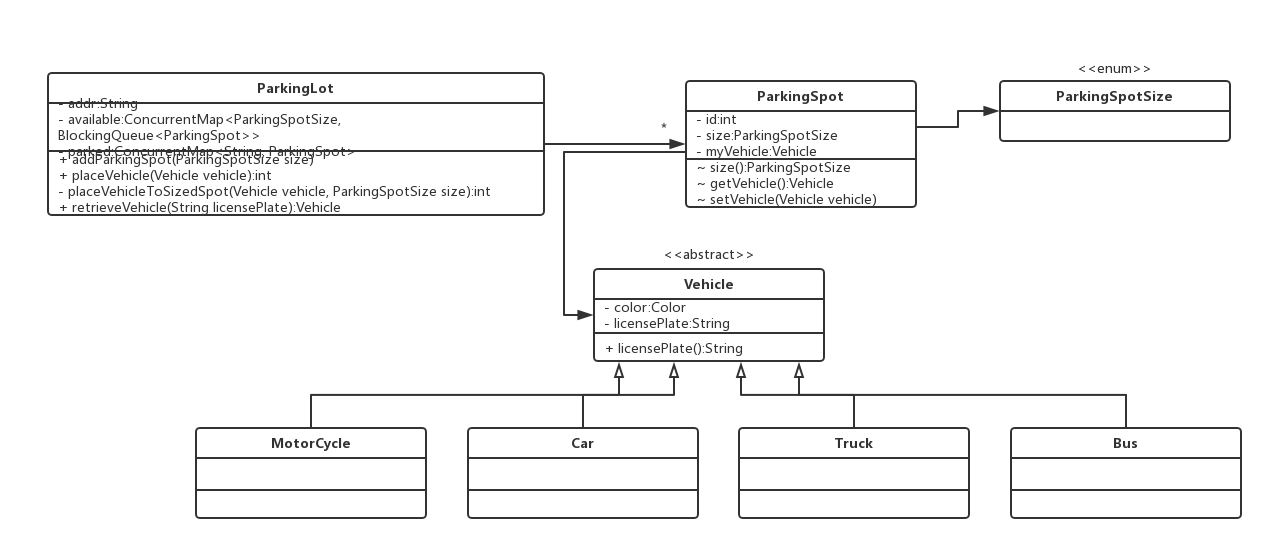
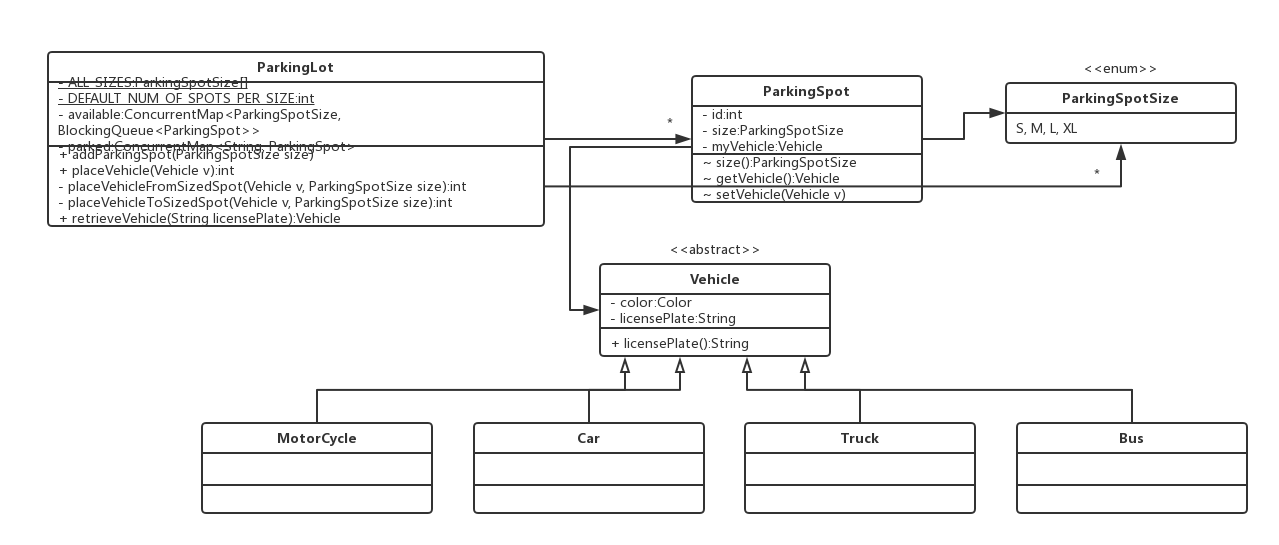
Update parking lot example

Changed region(s): [[0.0306, 0.0936, 0.9804, 0.967], [0.7965, 0.8734, 0.9804, 0.9046], [0.7965, 0.9358, 0.9497, 0.967]]

diff --git a/Interview-System Design Practice/Parking Lot/Java/parking_lot/ParkingLot.java b/Interview-System Design Practice/Parking Lot/Java/parking_lot/ParkingLot.java
@@ -1,21 +1,16 @@
 package parking_lot;
 
+import vehicle.Bus;
 import vehicle.Car;
 import vehicle.MotorCycle;
 import vehicle.Truck;
 import vehicle.Vehicle;
 
+import java.util.Arrays;
 import java.util.concurrent.ArrayBlockingQueue;
 import java.util.concurrent.BlockingQueue;
 import java.util.concurrent.ConcurrentHashMap;
 import java.util.concurrent.ConcurrentMap;
-
-/**
- * Sizes of the parking spots.
- */
-enum ParkingSpotSize {
-    S, M, L, XL
-}
 
 /**
  * ParkingLot class.
@@ -24,12 +19,16 @@ enum ParkingSpotSize {
  */
 public class ParkingLot {
 
+    /**
+     * All parking spot sizes in ascending order.
+     */
+    private static final ParkingSpotSize[] ALL_SIZES_IN_ORDER =
+            {ParkingSpotSize.S, ParkingSpotSize.M, ParkingSpotSize.M, ParkingSpotSize.XL};
+    /**
+     * Default number of parking spots for each size.
+     */
     private static final int DEFAULT_NUM_OF_SPOTS_PER_SIZE = 20;
 
-    /**
-     * Address of the parking lot.
-     */
-    private final String addr;
     /**
      * Mapping between parking spot sizes and the corresponding available
      * parking spots.
@@ -42,11 +41,9 @@ public class ParkingLot {
     private final ConcurrentMap<String, ParkingSpot> parked;
 
     /**
-     * Constructor with parameter.
-     * @param addr address of the parking lot
+     * Default constructor.
      */
-    public ParkingLot(String addr) {
-        this.addr = addr;
+    public ParkingLot() {
         available = new ConcurrentHashMap<>();
         for (ParkingSpotSize size : ParkingSpotSize.values()) {
             available.put(size, new ArrayBlockingQueue<>(DEFAULT_NUM_OF_SPOTS_PER_SIZE));
@@ -66,51 +63,56 @@ public class ParkingLot {
 
     /**
      * Places the given vehicle.
-     * @param vehicle vehicle to place
+     * @param v vehicle to place
      * @return parking spot ID on success, -1 on failure
      */
-    public int placeVehicle(Vehicle vehicle) {
+    public int placeVehicle(Vehicle v) {
         // Check whether the vehicle is already parked
-        if (parked.containsKey(vehicle.licensePlate())) {
+        if (parked.containsKey(v.licensePlate())) {
             throw new RuntimeException("The vehicle is already parked.");
         }
 
-        int parkedSpotId = 0;
-        if (vehicle instanceof MotorCycle) {
-            if ((parkedSpotId = placeVehicleToSizedSpot(vehicle, ParkingSpotSize.S)) != -1) {
-                return parkedSpotId;
-            } else if ((parkedSpotId = placeVehicleToSizedSpot(vehicle, ParkingSpotSize.M)) != -1) {
-                return parkedSpotId;
-            } else if ((parkedSpotId = placeVehicleToSizedSpot(vehicle, ParkingSpotSize.L)) != -1) {
-                return parkedSpotId;
-            }
-            return placeVehicleToSizedSpot(vehicle, ParkingSpotSize.XL);
-        } else if (vehicle instanceof Car) {
-            if ((parkedSpotId = placeVehicleToSizedSpot(vehicle, ParkingSpotSize.M)) != -1) {
-                return parkedSpotId;
-            } else if ((parkedSpotId = placeVehicleToSizedSpot(vehicle, ParkingSpotSize.L)) != -1) {
-                return parkedSpotId;
-            }
-            return placeVehicleToSizedSpot(vehicle, ParkingSpotSize.XL);
-        } else if (vehicle instanceof Truck) {
-            if ((parkedSpotId = placeVehicleToSizedSpot(vehicle, ParkingSpotSize.L)) != -1) {
-                return parkedSpotId;
-            }
-            return placeVehicleToSizedSpot(vehicle, ParkingSpotSize.XL);
-        } else {
-            return placeVehicleToSizedSpot(vehicle, ParkingSpotSize.XL);
+        ParkingSpotSize vehicleSize = ParkingSpotSize.S;
+        if (v instanceof Car) {
+            vehicleSize = ParkingSpotSize.M;
+        } else if (v instanceof Truck) {
+            vehicleSize = ParkingSpotSize.L;
+        } else if (v instanceof Bus) {
+            vehicleSize = ParkingSpotSize.XL;
         }
+        return placeVehicleFromSizedSpot(v, vehicleSize);
         // Time: O(1)
     }
 
     /**
-     * Private helper method to place the given vehicle to a parking spot of the
-     * given size.
-     * @param vehicle vehicle to place
+     * Private helper method to place the given vehicle to a parking spot, starting
+     * from searching the given size.
+     * @param v vehicle to place
+     * @param fromSize given parking spot size from which to start searching
+     * @return parking spot ID on success, -1 on failure
+     */
+    private int placeVehicleFromSizedSpot(Vehicle v, ParkingSpotSize fromSize) {
+        int fromIdx = Arrays.binarySearch(ALL_SIZES_IN_ORDER, fromSize);
+        int parkedSpotId = -1;
+        for (int idx = fromIdx; idx < ALL_SIZES_IN_ORDER.length; ++idx) {
+            ParkingSpotSize size = ALL_SIZES_IN_ORDER[idx];
+            int parked_spot_id = placeVehicleToSizedSpot(v, size);
+            if (parked_spot_id != -1) {
+                break;
+            }
+        }
+        return parkedSpotId;
+        // Time: O(1)
+    }
+
+    /**
+     * Helper method to place the given vehicle to a parking spot of the given
+     * size.
+     * @param v vehicle to place
      * @param size given parking spot size
      * @return parking spot ID on success, -1 on failure
      */
-    private int placeVehicleToSizedSpot(Vehicle vehicle, ParkingSpotSize size) {
+    private int placeVehicleToSizedSpot(Vehicle v, ParkingSpotSize size) {
         BlockingQueue<ParkingSpot> sizeAvailable = available.get(size);
         if (sizeAvailable.isEmpty()) {
             return -1;
@@ -118,8 +120,8 @@ public class ParkingLot {
 
         ParkingSpot spot = sizeAvailable.poll();
         // Occupy the parking spot
-        spot.setVehicle(vehicle);
-        parked.put(vehicle.licensePlate(), spot);
+        spot.setVehicle(v);
+        parked.put(v.licensePlate(), spot);
         return spot.id();
         // Time: O(1)
     }
@@ -136,13 +138,13 @@ public class ParkingLot {
         }
 
         ParkingSpot spot = parked.remove(licensePlate);
-        Vehicle vehicle = spot.getVehicle();
+        Vehicle v = spot.getVehicle();
         // Free the parking spot
         spot.setVehicle(null);
         BlockingQueue<ParkingSpot> sizeAvailable = available.get(spot.size());
         sizeAvailable.offer(spot);
         available.put(spot.size(), sizeAvailable);
-        return vehicle;
+        return v;
         // Time: O(1)
     }
 

diff --git a/Interview-System Design Practice/Parking Lot/Python/parking_lot.py b/Interview-System Design Practice/Parking Lot/Python/parking_lot.py
@@ -8,7 +8,7 @@ Parking lot module.
 from collections import deque
 from enum import Enum, auto
 
-from vehicle import Bus, Car, MotorCycle, Truck, Vehicle
+from vehicle import Bus, Car, Truck, Vehicle
 
 
 class ParkingSpotSize(Enum):
@@ -61,17 +61,22 @@ class ParkingSpot:
         return self._my_vehicle
 
     @vehicle.setter
-    def vehicle(self, vehicle: Vehicle) -> None:
+    def vehicle(self, v: Vehicle) -> None:
         """
         Mutator of my_vehicle.
-        :param vehicle: Vehicle
+        :param v: Vehicle
         :return: None
         """
-        self._my_vehicle = vehicle
+        self._my_vehicle = v
 
 
 class ParkingLot:
     __slots__ = ['_addr', '_available', '_parked']
+
+    _ALL_SIZES = [
+        ParkingSpotSize.S, ParkingSpotSize.M, ParkingSpotSize.L,
+        ParkingSpotSize.XL
+    ]
 
     def __init__(self, addr: str):
         """
@@ -92,59 +97,49 @@ class ParkingLot:
         size_available.offer(ParkingSpot(size))
         self._parked[size] = size_available
 
-    def place_vehicle(self, vehicle: Vehicle) -> int:
+    def place_vehicle(self, v: Vehicle) -> int:
         """
         Places the given vehicle.
-        :param vehicle: Vehicle
+        :param v: Vehicle
         :return: int
         """
         # Check whether the vehicle is already parked
-        if vehicle.license_plate in self._parked:
+        if v.license_plate in self._parked:
             raise Exception('The vehicle is already parked.')
 
-        if isinstance(vehicle, MotorCycle):
-            parked_spot_id = \
-                self._place_vehicle_to_sized_spot(vehicle, ParkingSpotSize.S)
-            if parked_spot_id != -1:
-                return parked_spot_id
-            parked_spot_id = \
-                self._place_vehicle_to_sized_spot(vehicle, ParkingSpotSize.M)
-            if parked_spot_id != -1:
-                return parked_spot_id
-            parked_spot_id = \
-                self._place_vehicle_to_sized_spot(vehicle, ParkingSpotSize.L)
-            if parked_spot_id != -1:
-                return parked_spot_id
-            return self._place_vehicle_to_sized_spot(vehicle,
-                                                     ParkingSpotSize.XL)
-        elif isinstance(vehicle, Car):
-            parked_spot_id = \
-                self._place_vehicle_to_sized_spot(vehicle, ParkingSpotSize.M)
-            if parked_spot_id != -1:
-                return parked_spot_id
-            parked_spot_id = \
-                self._place_vehicle_to_sized_spot(vehicle, ParkingSpotSize.L)
-            if parked_spot_id != -1:
-                return parked_spot_id
-            return self._place_vehicle_to_sized_spot(vehicle,
-                                                     ParkingSpotSize.XL)
-        elif isinstance(vehicle, Truck):
-            parked_spot_id = \
-                self._place_vehicle_to_sized_spot(vehicle, ParkingSpotSize.L)
-            if parked_spot_id != -1:
-                return parked_spot_id
-            return self._place_vehicle_to_sized_spot(vehicle,
-                                                     ParkingSpotSize.XL)
-        else:
-            return self._place_vehicle_to_sized_spot(vehicle,
-                                                     ParkingSpotSize.XL)
+        vehicle_size = ParkingSpotSize.S
+        if isinstance(v, Car):
+            vehicle_size = ParkingSpotSize.M
+        elif isinstance(v, Truck):
+            vehicle_size = ParkingSpotSize.L
+        elif isinstance(v, Bus):
+            vehicle_size = ParkingSpotSize.XL
+        return self._place_vehicle_from_sized_spot(v, from_size=vehicle_size)
 
-    def _place_vehicle_to_sized_spot(self, vehicle: Vehicle,
+    def _place_vehicle_from_sized_spot(self, v: Vehicle,
+                                       from_size: ParkingSpotSize) -> int:
+        """
+        Private helper method to place the given vehicle to a parking spot,
+        starting from searching the given size.
+        :param v: Vehicle
+        :param from_size: int
+        :return: int
+        """
+        from_idx = self._ALL_SIZES.index(from_size)
+        parked_spot_id = -1
+        for idx in range(from_idx, len(self._ALL_SIZES)):
+            size = self._ALL_SIZES[idx]
+            parked_spot_id = self._place_vehicle_to_sized_spot(v, size=size)
+            if parked_spot_id != -1:
+                break
+        return parked_spot_id
+
+    def _place_vehicle_to_sized_spot(self, v: Vehicle,
                                      size: ParkingSpotSize) -> int:
         """
-        Private helper method to place the given vehicle to a parking spot of
-        the given size.
-        :param vehicle: Vehicle
+        Helper method to place the given vehicle to a parking spot of the given
+        size.
+        :param v: Vehicle
         :param size: ParkingSpotSize
         :return: int
         """
@@ -152,8 +147,8 @@ class ParkingLot:
         if not size_available:
             return -1
         spot = size_available.popleft()
-        spot.vehicle = vehicle
-        self._parked[vehicle.license_plate] = spot
+        spot.vehicle = v
+        self._parked[v.license_plate] = spot
         return spot.id
         # Time: O(1)
 
@@ -168,11 +163,11 @@ class ParkingLot:
             raise Exception('The vehicle is not parked.')
 
         spot = self._parked.pop(license_plate)
-        vehicle = spot.vehicle
+        v = spot.vehicle
         # Free the parking spot
         spot.vehicle = None
         size_available = self._available[spot.size]
         size_available.append(spot)
         self._available[spot.size] = size_available
-        return vehicle
+        return v
         # Time: O(1)

diff --git a/Interview-System Design Practice/Parking Lot/Java/parking_lot/ParkingSpot.java b/Interview-System Design Practice/Parking Lot/Java/parking_lot/ParkingSpot.java
@@ -64,10 +64,10 @@ class ParkingSpot {
 
     /**
      * Mutator of myVehicle
-     * @param vehicle vehicle to set
+     * @param v vehicle to set
      */
-    void setVehicle(Vehicle vehicle) {
-        myVehicle = vehicle;
+    void setVehicle(Vehicle v) {
+        myVehicle = v;
     }
 
 }

diff --git a/Interview-System Design Practice/Parking Lot/Java/parking_lot/ParkingSpotSize.java b/Interview-System Design Practice/Parking Lot/Java/parking_lot/ParkingSpotSize.java
@@ -1,0 +1,10 @@
+package parking_lot;
+
+/**
+ * Sizes of the parking spots.
+ *
+ * @author Ziang Lu
+ */
+public enum ParkingSpotSize {
+    S, M, L, XL
+}
